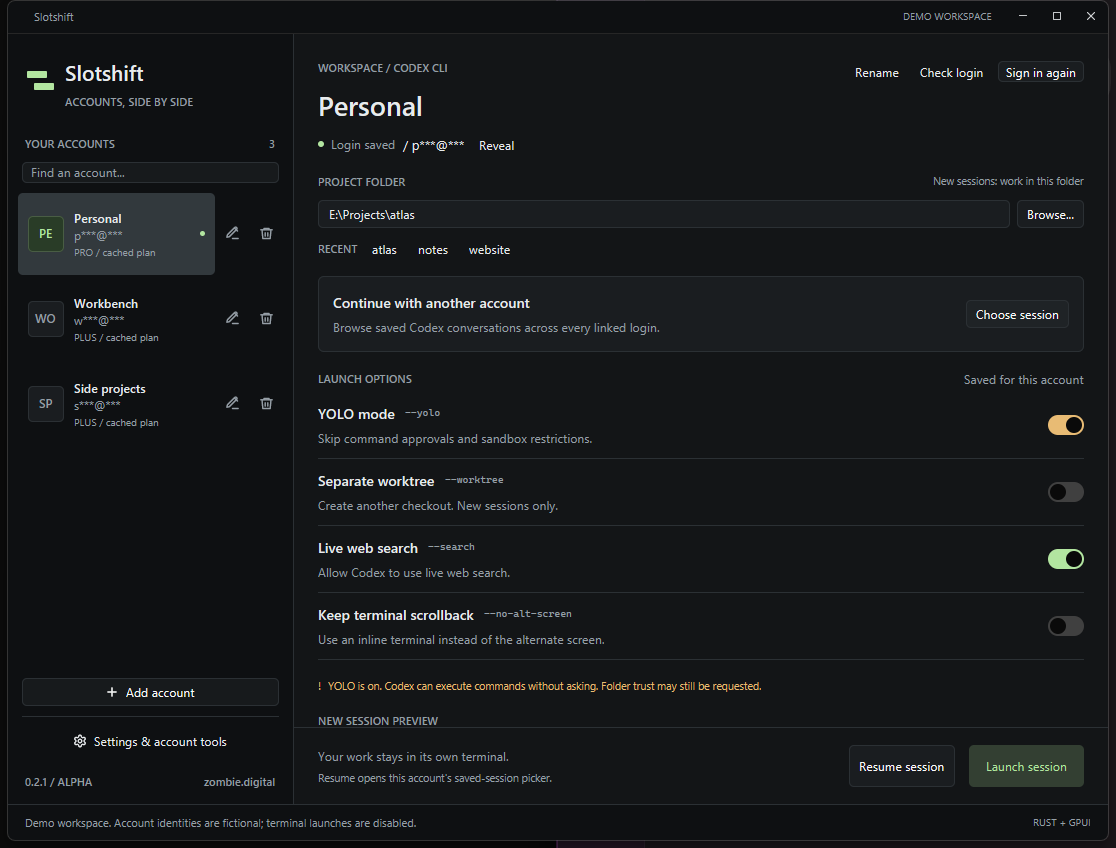
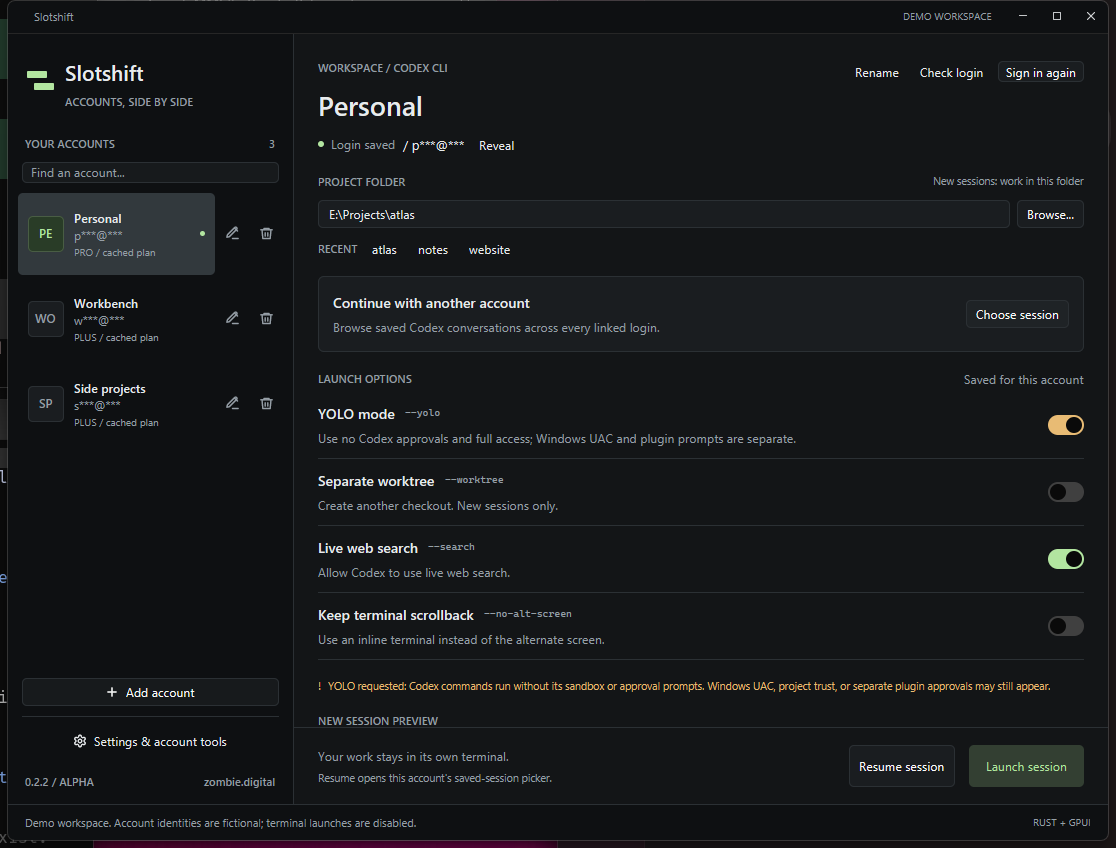
Keep Codex YOLO defaults on resumed sessions

diff --git a/src/ui_view.rs b/src/ui_view.rs
@@ -263,7 +263,7 @@ impl Launcher {
                             .justify_between()
                             .px_1()
                             .pt_2()
-                            .child(p::label("0.2.1 / ALPHA"))
+                            .child(p::label("0.2.2 / ALPHA"))
                             .child(p::label("zombie.digital")),
                     ),
             )
@@ -375,13 +375,13 @@ impl Launcher {
                         .on_click(cx.listener(|this,_,w,cx|this.open_handoff(w,cx)))))
                 .child(div().flex().flex_col()
                     .child(div().flex().justify_between().pb_1().child(p::label("LAUNCH OPTIONS")).child(p::muted("Saved for this account")))
-                    .child(self.option_row("yolo","YOLO mode","Skip command approvals and sandbox restrictions.",options.yolo,"--yolo",cx))
+                    .child(self.option_row("yolo","YOLO mode","Use no Codex approvals and full access; Windows UAC and plugin prompts are separate.",options.yolo,"--yolo",cx))
                     .child(self.option_row("worktree","Separate worktree","Create another checkout. New sessions only.",options.worktree,"--worktree",cx))
                     .child(self.option_row("search","Live web search","Allow Codex to use live web search.",options.live_search,"--search",cx))
                     .child(self.option_row("inline","Keep terminal scrollback","Use an inline terminal instead of the alternate screen.",options.inline_terminal,"--no-alt-screen",cx)))
                 .child(div().flex().gap_2().items_start().text_xs().text_color(rgb(if options.yolo{p::AMBER}else{p::MUTED}))
                     .child(if options.yolo{"!"}else{"i"})
-                    .child(div().flex_1().child(if options.yolo{"YOLO is on. Codex can execute commands without asking. Folder trust may still be requested."}else{"YOLO is off. Uses workspace-write permissions and approvals on request."})))
+                    .child(div().flex_1().child(if options.yolo{"YOLO requested: Codex commands run without its sandbox or approval prompts. Windows UAC, project trust, or separate plugin approvals may still appear."}else{"YOLO is off. Uses workspace-write permissions and approvals on request."})))
                 .child(div().flex().flex_col().gap_2().child(p::label("NEW SESSION PREVIEW"))
                     .child(div().p_3().bg(rgb(p::SIDEBAR)).border_1().border_color(rgb(p::BORDER)).rounded(px(5.)).font_family("Cascadia Mono").text_size(px(11.)).text_color(rgb(p::MUTED)).child(preview(account,Action::New)))))
             .child(div().px_7().py_5().border_t_1().border_color(rgb(p::BORDER)).flex().items_center().justify_between().gap_4()

diff --git a/tests/core.rs b/tests/core.rs
@@ -320,6 +320,16 @@ fn all_launch_options_and_account_types_form_correct_arguments() {
                 let args = launch::arguments(&a, action);
                 assert!(args.contains(&"--no-daemon".into()));
                 assert_eq!(args.contains(&"--yolo".into()), a.options.yolo);
+                // Do not trust old saved config.toml defaults during a YOLO
+                // reconnect: both config values must accompany the CLI flag.
+                assert_eq!(
+                    args.contains(&"approval_policy=\"never\"".into()),
+                    a.options.yolo
+                );
+                assert_eq!(
+                    args.contains(&"sandbox_mode=\"danger-full-access\"".into()),
+                    a.options.yolo
+                );
                 assert_eq!(args.contains(&"workspace-write".into()), !a.options.yolo);
                 assert_eq!(args.contains(&"on-request".into()), !a.options.yolo);
                 assert_eq!(
@@ -371,6 +381,8 @@ fn login_and_status_do_not_receive_execution_permissions() {
             assert!(!args.contains(&bad.into()));
         }
         assert!(args.contains(&"login".into()));
+        assert!(!args.contains(&"approval_policy=\"never\"".into()));
+        assert!(!args.contains(&"sandbox_mode=\"danger-full-access\"".into()));
     }
 }
 #[test]

diff --git a/src/launch.rs b/src/launch.rs
@@ -57,7 +57,20 @@ pub fn arguments(account: &Account, action: Action) -> Vec<String> {
             args.extend(["resume", "--all"].map(str::to_string));
         }
         if account.options.yolo {
-            args.push("--yolo".into());
+            // Codex 0.158-0.161 may fall back to the account's persisted
+            // workspace-write/on-request config after a cold TUI reconnect.
+            // Override both startup config defaults as well as selecting YOLO;
+            // do not rewrite config.toml or change unrelated Codex sessions.
+            args.extend(
+                [
+                    "-c",
+                    "approval_policy=\"never\"",
+                    "-c",
+                    "sandbox_mode=\"danger-full-access\"",
+                    "--yolo",
+                ]
+                .map(str::to_string),
+            );
         } else {
             args.extend(
                 [

diff --git a/tests/session_bridge.rs b/tests/session_bridge.rs
@@ -224,5 +224,15 @@ fn fork_plan_uses_destination_login_and_source_project() {
     assert!(plan.args.iter().any(|arg| arg == "fork"));
     assert!(plan.args.iter().any(|arg| arg == &id));
     assert!(plan.args.iter().any(|arg| arg == "--yolo"));
+    assert!(
+        plan.args
+            .iter()
+            .any(|arg| arg == "approval_policy=\"never\"")
+    );
+    assert!(
+        plan.args
+            .iter()
+            .any(|arg| arg == "sandbox_mode=\"danger-full-access\"")
+    );
     assert!(!plan.args.iter().any(|arg| arg == "--worktree"));
 }

diff --git a/README.md b/README.md
@@ -55,12 +55,14 @@ Session titles and account labels remain distinct. Slotshift masks recognizable 
 
 | Option | On | Off |
 |---|---|---|
-| YOLO | Adds `--yolo`; skips command approvals and sandboxing. | Explicitly uses `--sandbox workspace-write --ask-for-approval on-request`. |
+| YOLO | Adds `--yolo` **plus startup-only** `-c approval_policy=\"never\"` and `-c sandbox_mode=\"danger-full-access\"` so the Codex process also has explicit no-approval/full-access fallback defaults after a reconnect. | Explicitly uses `--sandbox workspace-write --ask-for-approval on-request`. |
 | Separate worktree | Adds `--worktree` for a **new** session. | Uses your selected folder and its current branch. |
 | Live web search | Adds `--search`. | Does not add the live-search override; Codex's own configuration still applies. |
 | Keep terminal scrollback | Adds `--no-alt-screen`. | Does not override the default terminal screen behavior. |
 
-Fresh accounts start with **YOLO off** and **worktrees off**. Options affect the next launch or resume, not already-running sessions. Project trust is separate from command approvals, so a trusted-folder prompt can still appear with YOLO enabled. Resume retains the session's original project; it does not move old worktree sessions into another folder.
+Fresh accounts start with **YOLO off** and **worktrees off**. Options affect the next launch or resume, not already-running sessions. YOLO is dangerous on a host containing private files; only enable it when you trust the repository and agent. Resume retains the session's original project; it does not move old worktree sessions into another folder.
+
+**Why does YOLO still ask for permission?** Some Codex versions can revert to `workspace-write` after a cold reconnect (see [Codex issue #49088](https://github.com/openai/codex/issues/49088)). Slotshift 0.2.2 adds **process-local configuration overrides** for both approval and sandbox settings when YOLO is enabled; existing account `config.toml` files remain unchanged. Relaunch or resume from the updated Slotshift to apply the fix to a new CLI process. In the Codex terminal, use `/status` to inspect effective permissions; if available, `/permissions` lets you choose **Full Access** for the current session. Windows UAC, project-folder trust and separate plugin/MCP approval dialogs are **not** Codex command-sandbox approvals and may still ask for confirmation.
 
 Agents working in the same project folder share editable files. Slotshift does not switch branches, merge their changes, or coordinate concurrent Git operations.
 

diff --git a/docs/VALIDATION.md b/docs/VALIDATION.md
@@ -31,6 +31,14 @@ Live continuation with real model inference and account-specific service entitle
 - Fictional screenshots demonstrate both pencil/trash icons and the rename dialog. The capture code temporarily foregrounds the targeted window and restores normal stacking to prevent partially occluded screenshots.
 - Rust formatting, tests, and strict Clippy checks passed. No real account logins or Codex model requests were made in these UI tests.
 
+## YOLO launch regression investigation (2026-10-08)
+
+- Inspected real Slotshift-launched Windows Codex CLI 0.161.0 processes: `resume` and `fork` both received the actual `--yolo` flag. Slotshift's account settings also had YOLO enabled, so the flag was not being dropped by the launcher.
+- Read only permission metadata (no conversation content) from local Codex rollouts. Some managed sessions recorded `approval_policy=on-request` and `sandbox_policy.type=workspace-write`, despite earlier YOLO turns recording `never` and `danger-full-access`.
+- Existing managed account `config.toml` files default to `on-request`/`workspace-write`. A disposable `CODEX_HOME` with Codex's own app-server `config/read` confirmed that process-only `-c approval_policy=\"never\" -c sandbox_mode=\"danger-full-access\"` overrides changed effective defaults to `never`/`danger-full-access` without touching user credentials or live sessions.
+- The installed CLI accepted the amended resume/fork flag combinations in help-only checks. Rust tests assert YOLO and both explicit config overrides on new/resume/fork, while login/status never inherit execution permissions.
+- Codex issue https://github.com/openai/codex/issues/49088 documents the reconnect regression addressed by this defensive override. Windows UAC and plugin/MCP approvals are separate; they are not bypassed by YOLO and are not tested as part of this mitigation.
+
 ## Not claimed by this alpha
 
 A live model response, browser reauthorization, organization-managed policy behavior, long-duration stability, and a broad GPU/driver matrix were not tested in this pass. Existing provider logins are linked in place, but cached identity labels are not live validation. macOS/Linux terminal launching and code signing are not implemented.
